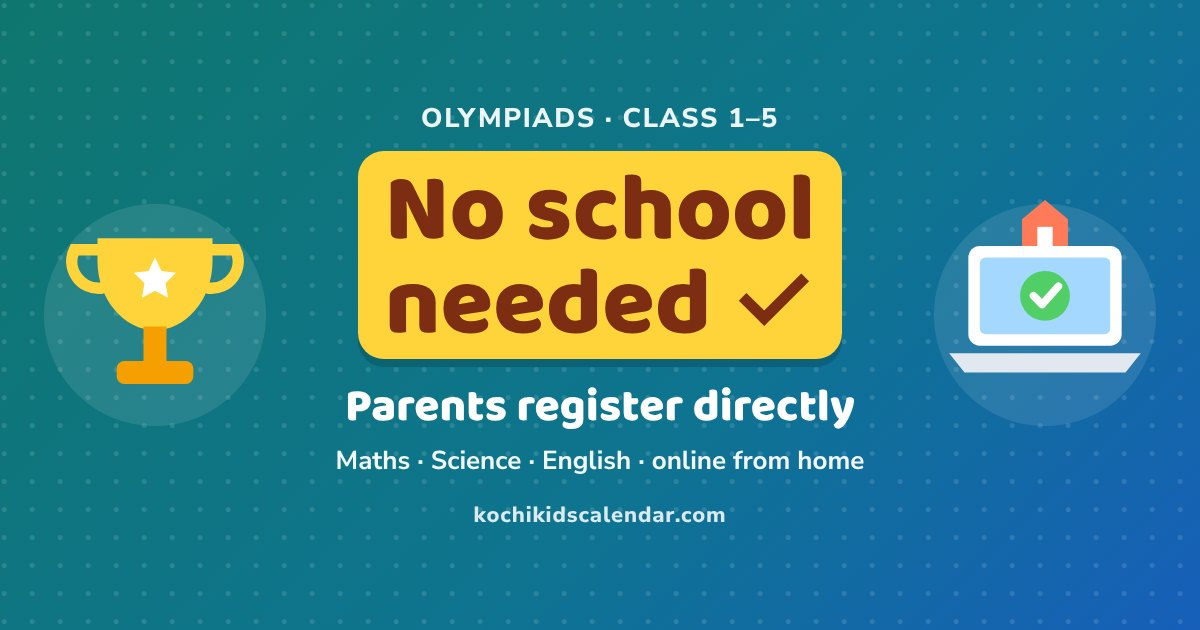
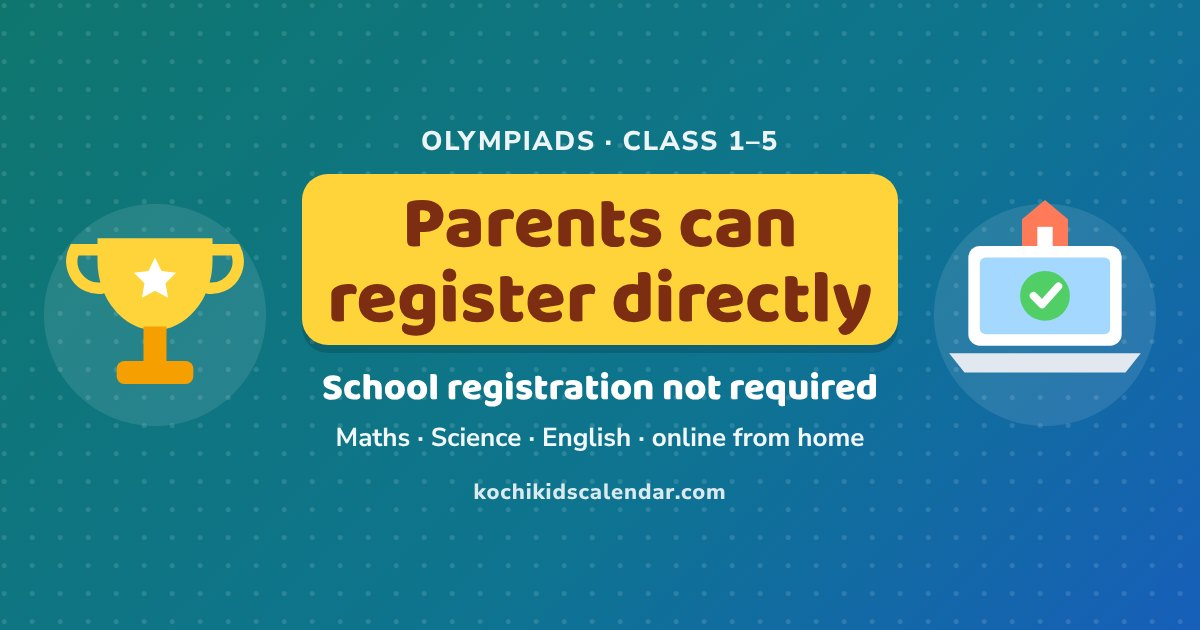
Share preview: milder wording ('Parents can register directly · School registration not required')
Claude-Session: https://claude.ai/code/session_01GNwjeTZDbv7VsTgUQV2vTH

Changed region(s): [[0.2467, 0.1508, 0.7708, 0.8444]]

diff --git a/no-school/index.html b/no-school/index.html
@@ -3,21 +3,21 @@
 <head>
   <meta charset="UTF-8">
   <meta name="viewport" content="width=device-width, initial-scale=1">
-  <title>Olympiads for Class 1–5: register directly, no school needed – Kochi Kids Calendar</title>
+  <title>Olympiads for Class 1–5: parents can register directly – Kochi Kids Calendar</title>
   <!-- Share link only: it exists to give WhatsApp etc. its own preview, then opens the competitions page. -->
   <meta name="robots" content="noindex">
-  <meta name="description" content="Unified Council Maths (UIMO), Science (NSTSE) and English (UIEO) Olympiads: parents register directly, no school needed. Online from home, free practice tests. Dates, class timings and registration link.">
+  <meta name="description" content="Unified Council Maths (UIMO), Science (NSTSE) and English (UIEO) Olympiads: parents can register directly; school registration is not required. Online from home, free practice tests. Dates, class timings and registration link.">
   <meta name="theme-color" content="#0f766e">
   <meta property="og:type" content="website">
   <meta property="og:site_name" content="Kochi Kids Calendar">
-  <meta property="og:title" content="Olympiads for Class 1–5 — register directly, no school needed">
-  <meta property="og:description" content="Unified Council Maths, Science & English Olympiads: online from home, free practice tests. See dates, class timings and the registration link.">
+  <meta property="og:title" content="Olympiads for Class 1–5 — parents can register directly">
+  <meta property="og:description" content="School registration not required. Unified Council Maths, Science & English Olympiads: online from home, free practice tests. See dates, class timings and the registration link.">
   <meta property="og:url" content="https://kochikidscalendar.com/no-school/">
   <meta property="og:image" content="https://kochikidscalendar.com/og-no-school.jpg">
   <meta property="og:image:type" content="image/jpeg">
   <meta property="og:image:width" content="1200">
   <meta property="og:image:height" content="630">
-  <meta property="og:image:alt" content="Olympiads for Class 1–5: no school needed, parents register directly">
+  <meta property="og:image:alt" content="Olympiads for Class 1–5: parents can register directly, school registration not required">
   <meta name="twitter:card" content="summary_large_image">
   <script>location.replace("../?ref=no-school-link#direct");</script>
   <style>body{font-family:system-ui,sans-serif;text-align:center;padding:40px 16px;color:#0f172a;background:#fff}a{color:#0e7490;font-weight:700}</style>
